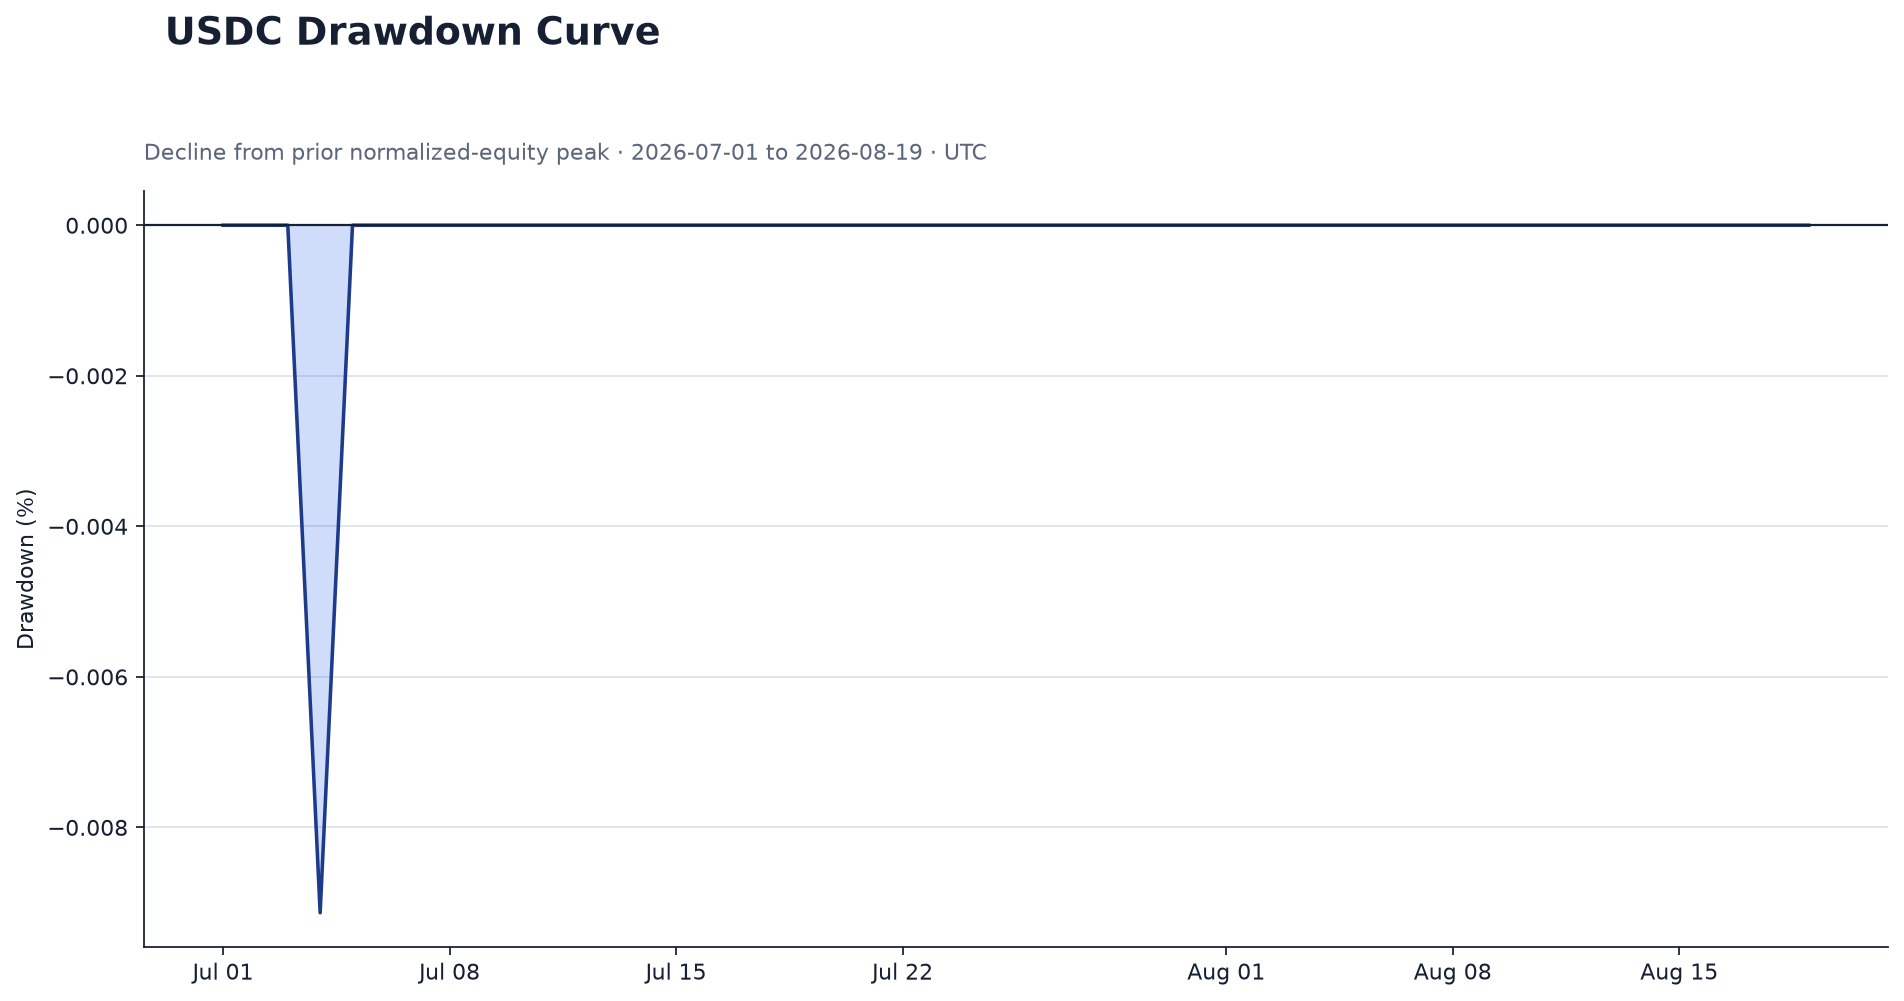
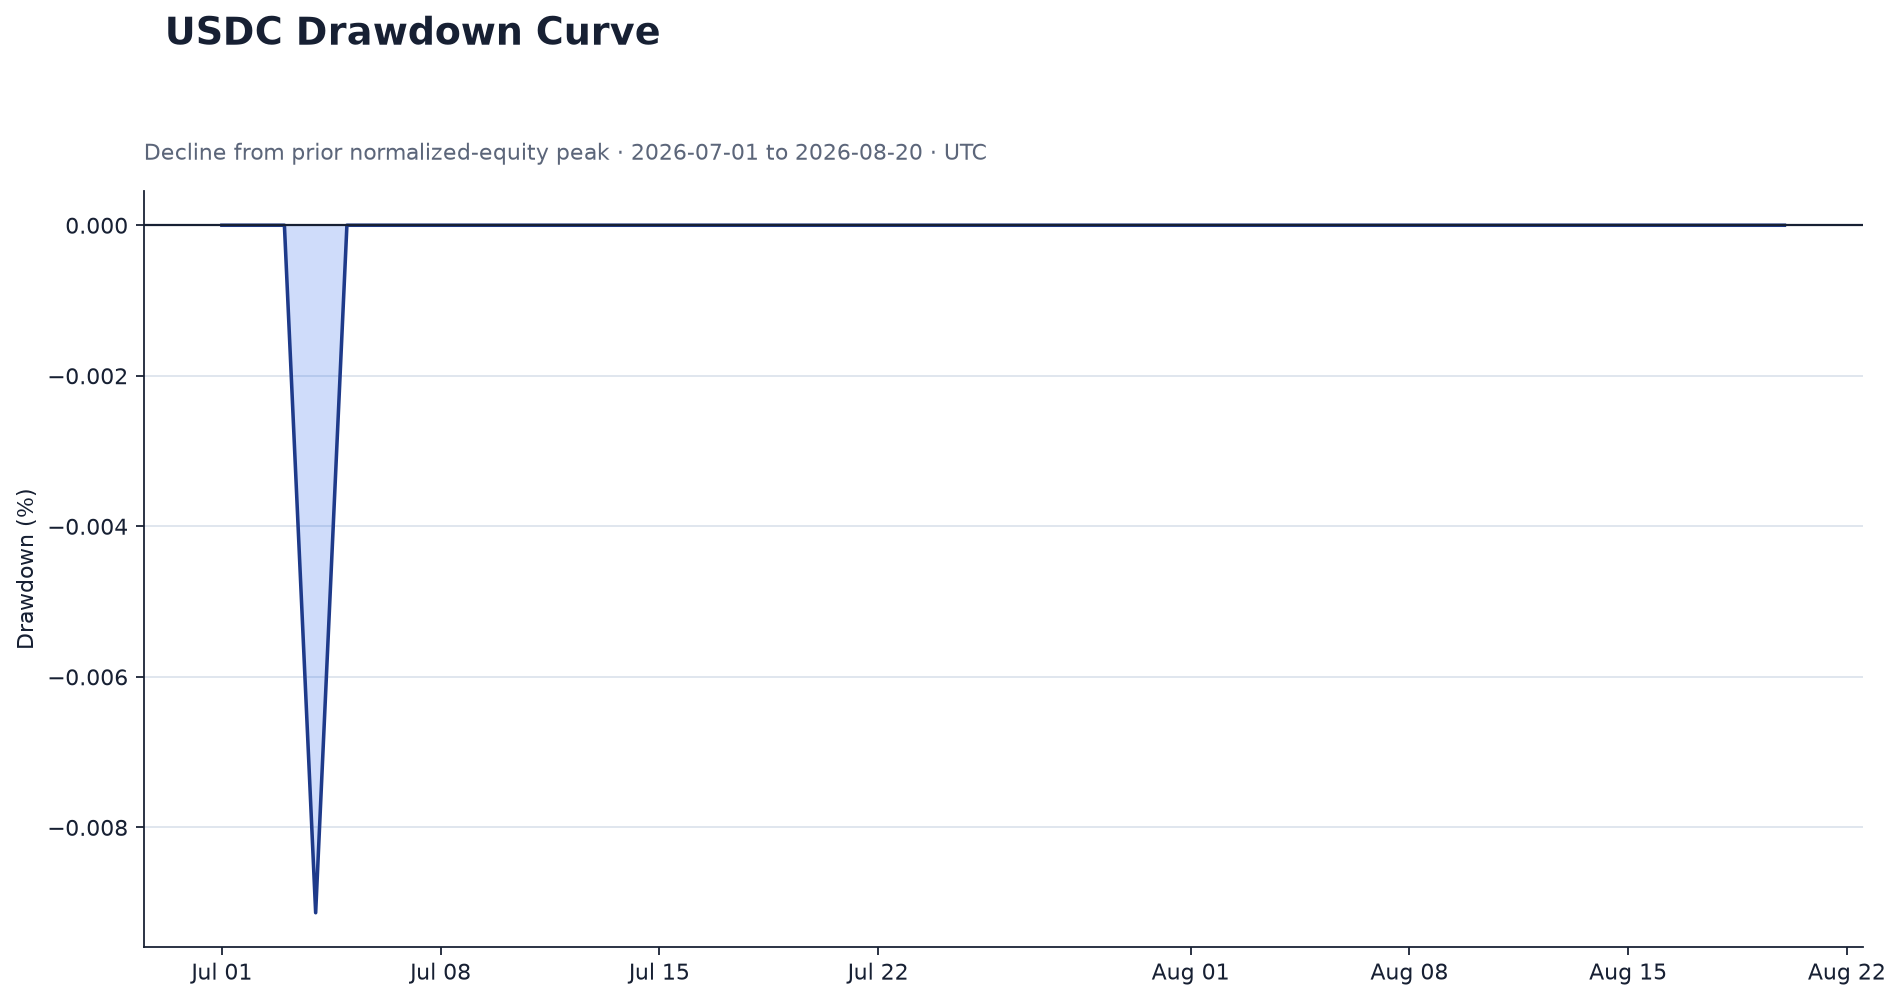
chore: update USDC performance

diff --git a/reports/performance_summary.md b/reports/performance_summary.md
@@ -1,7 +1,7 @@
 # Performance Summary
 
-Generated at: **2026-08-19T00:10:09Z**<br>
-Coverage: **2026-07-01 to 2026-08-19 (UTC)**<br>
+Generated at: **2026-08-20T00:10:08Z**<br>
+Coverage: **2026-07-01 to 2026-08-20 (UTC)**<br>
 Scope: **Daily USDC USD-M Futures realized performance**
 
 Absolute account values are not published. USD-M Futures transfers are excluded from trading return.
@@ -9,23 +9,23 @@ Sharpe and Sortino use private total daily returns including unrealized PnL; unr
 
 | Metric | Value |
 |---|---:|
-| Cumulative Return | 4.08% |
-| Latest Daily Return | 0.00% |
-| Annualized Return | 36.37% |
-| Annualized Volatility | 1.26% |
-| Sharpe Ratio | 6.416499 |
-| Sortino Ratio | 11.555649 |
+| Cumulative Return | 4.40% |
+| Latest Daily Return | 0.11% |
+| Annualized Return | 38.74% |
+| Annualized Volatility | 1.27% |
+| Sharpe Ratio | -2.282085 |
+| Sortino Ratio | -2.296151 |
 | Maximum Drawdown | -0.01% |
-| Calmar Ratio | 3982.316037 |
-| Win Rate | 97.62% |
-| Profit Factor | 1656.808833 |
-| Total Realized Pnl Usdc | 179.709699 |
+| Calmar Ratio | 4241.746807 |
+| Win Rate | 97.67% |
+| Profit Factor | 1790.123598 |
+| Total Realized Pnl Usdc | 186.829498 |
 | Total Commission Usdc | -0.075227 |
-| Total Funding Fee Usdc | 1.763261 |
-| Total Net Pnl Usdc | 181.397732 |
-| Number Of Trading Days | 42 |
-| Number Of Trades | 1283 |
-| Valid Return Days | 47 |
+| Total Funding Fee Usdc | 9.248406 |
+| Total Net Pnl Usdc | 196.002677 |
+| Number Of Trading Days | 43 |
+| Number Of Trades | 1355 |
+| Valid Return Days | 48 |
 | Excluded Return Days | 3 |
 | Annualization Factor | 365 |
 
